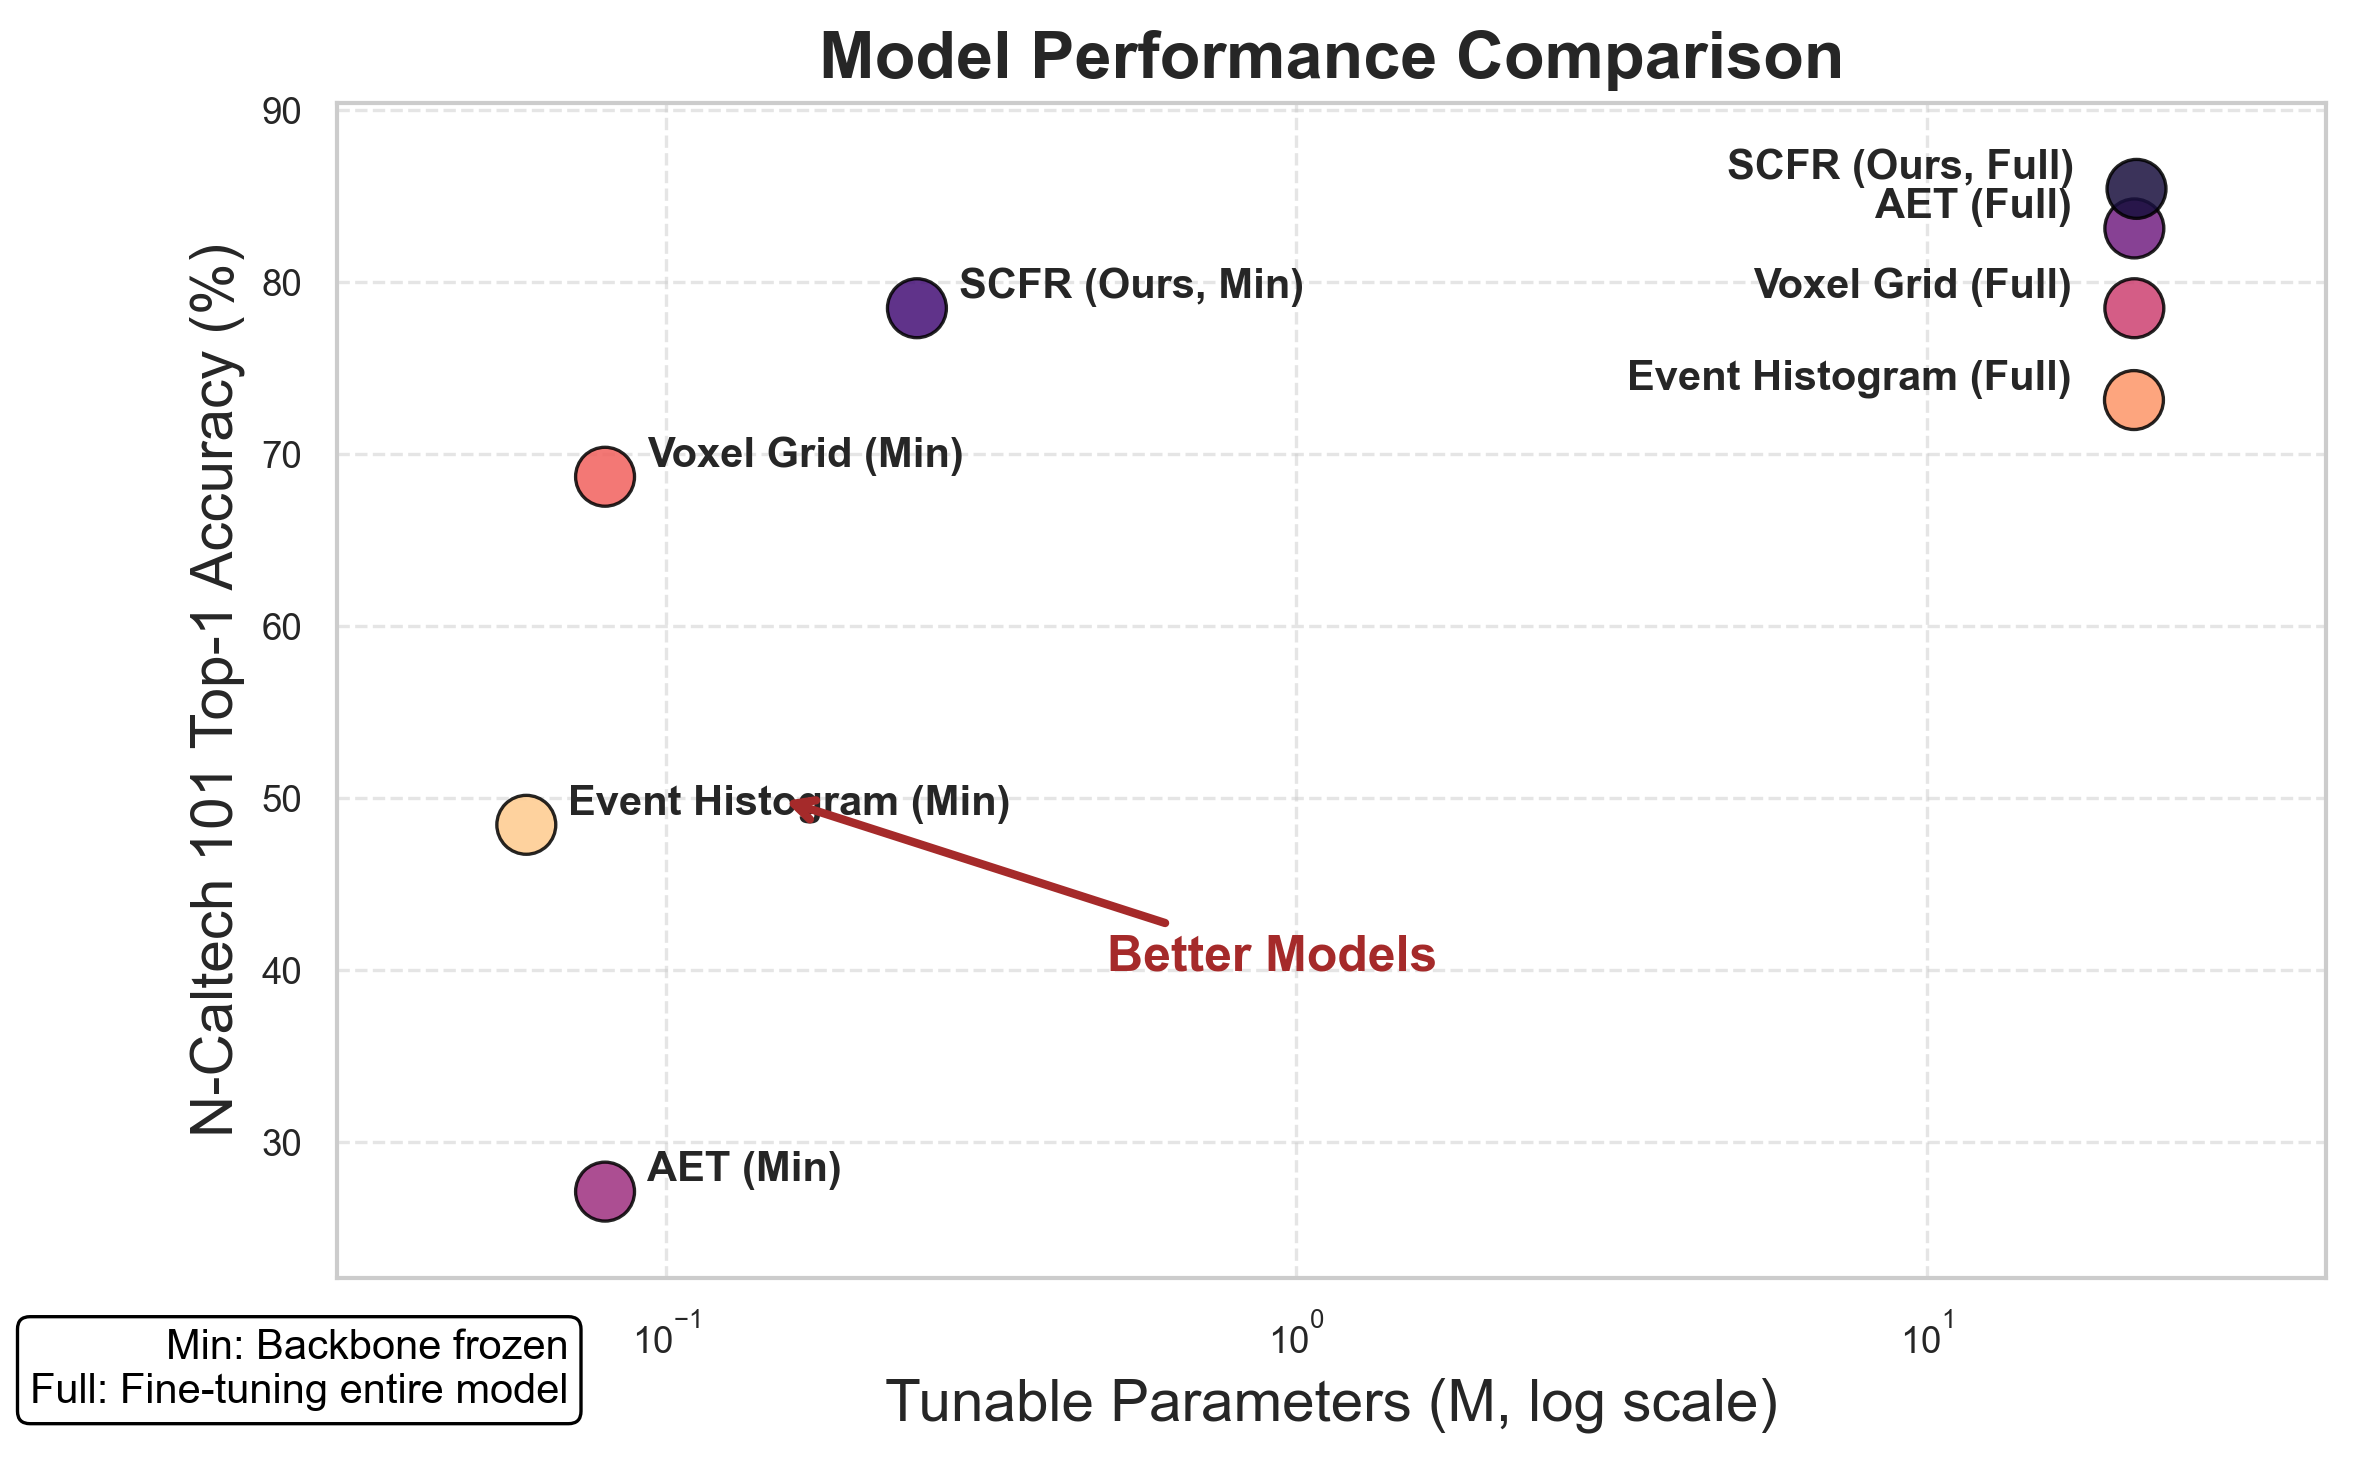
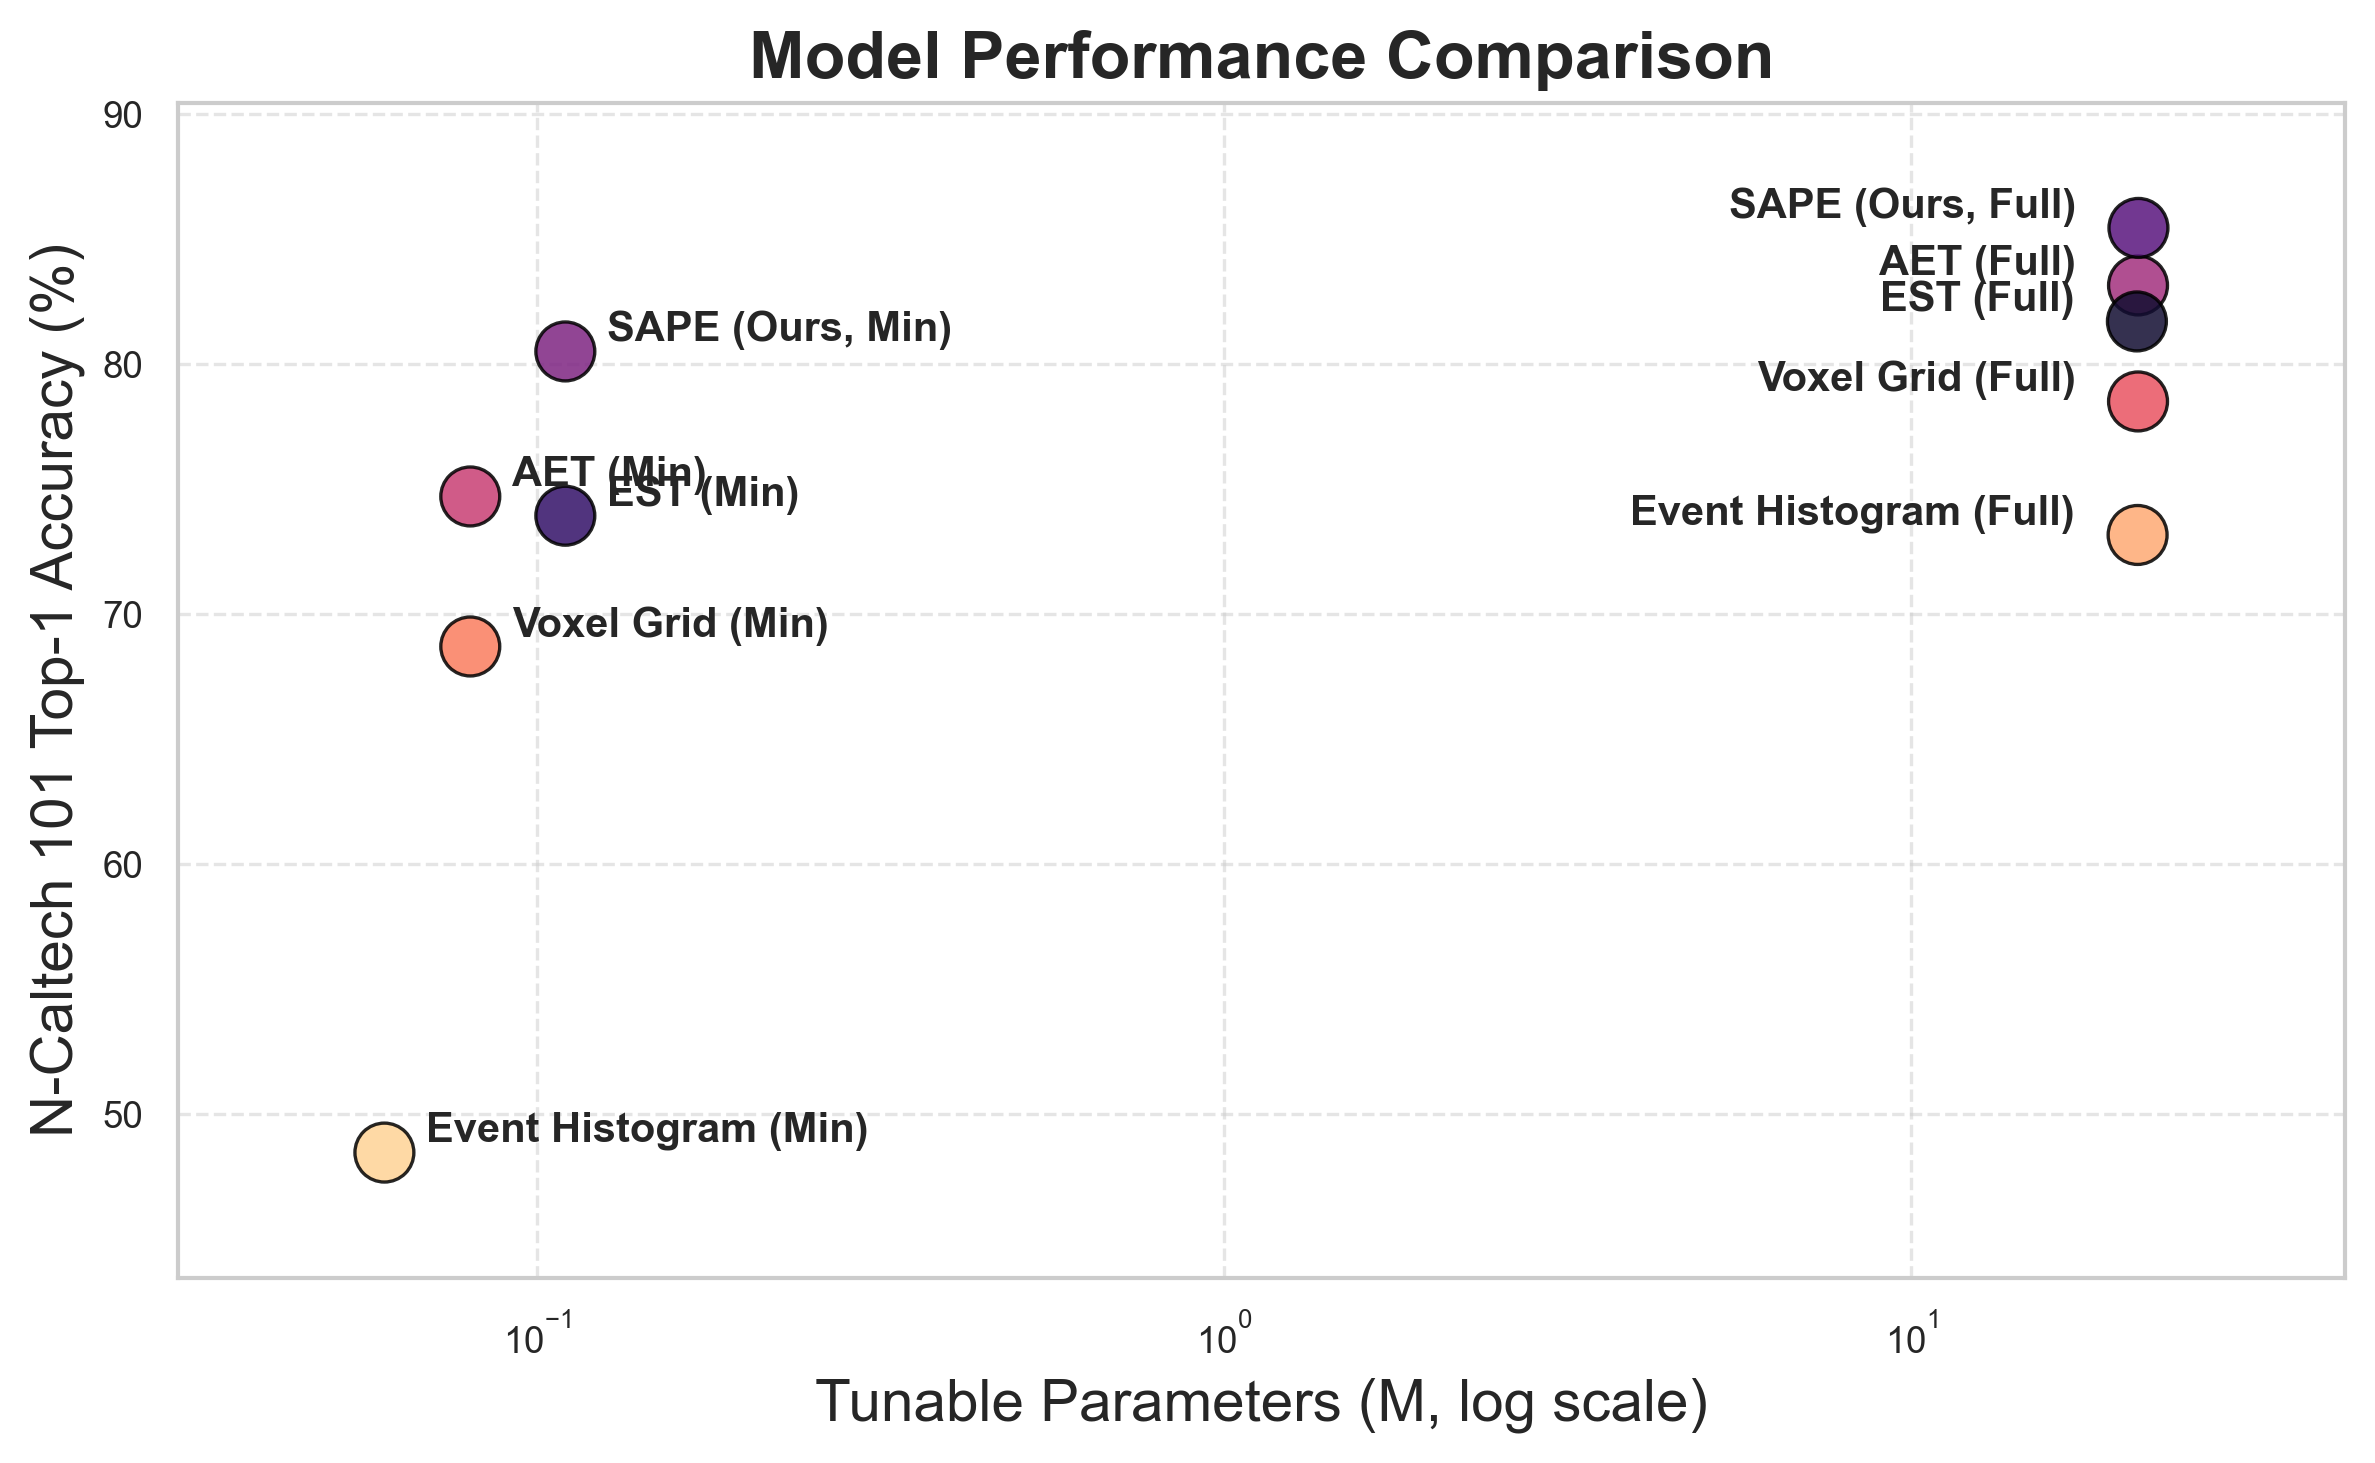
update scatter

diff --git a/painting/scatter.py b/painting/scatter.py
@@ -11,53 +11,58 @@ models = [
     "Event Histogram (Min)", "Event Histogram (Full)",
     "Voxel Grid (Min)", "Voxel Grid (Full)",
     "AET (Min)", "AET (Full)",
-    "SCFR (Ours, Min)", "SCFR (Ours, Full)"
+    "SAPE (Ours, Min)", "SAPE (Ours, Full)", "EST (Min)", "EST (Full)"
 ]
-params = np.array([0.06, 21.33, 0.08, 21.36, 0.08, 21.36, 0.25, 21.53])  # 参数量 (M)
-accuracy = np.array([48.46, 73.16, 68.70, 78.50, 27.13, 83.14, 78.50, 85.44])  # 准确率 (%)
+params = np.array([0.06, 21.33, 0.08, 21.36, 0.08, 21.36, 0.11, 21.39, 0.11, 21.28])  # 参数量 (M)
+accuracy = np.array([48.46, 73.16, 68.70, 78.50, 74.70, 83.14, 80.50, 85.44, 73.93, 81.70])  # 准确率 (%)
 
-# 颜色方案（使用 Viridis 颜色渐变）
+# 颜色方案（使用 magma 颜色渐变）
 colors = sns.color_palette("magma_r", len(models))
 
 # 创建图表
 plt.figure(figsize=(8, 5))
 
-# 绘制散点图（统一 Marker）
+# 绘制散点图
 plt.scatter(params, accuracy, c=colors, marker="o", s=200, edgecolors='black', alpha=0.85)
 
-# 在数据点旁边添加模型名称，自动调整文本位置
-for i, model in enumerate(models):
-    ha = "right" if params[i] > 5 else "left"  # 避免超出边界
-    offset_x = -15 if ha == "right" else 10  # 左侧文字偏右，右侧文字偏左
-    offset_y = 5  # 避免重叠
-    plt.annotate(model, (params[i], accuracy[i]), fontsize=10, fontweight="bold",
-                 xytext=(offset_x, offset_y), textcoords="offset points", ha=ha, va="center", fontname="Arial")
+# 手动调整文本标签的偏移量
+offsets = [
+    (15, 8), (-20, -8),  # Event Histogram (Min/Full)
+    (15, 5), (-20, -5),  # Voxel Grid (Min/Full)
+    (15, 10), (-20, 0),  # AET (Min/Full)
+    (20, 7), (-25, 0),  # SAPE (Ours, Min/Full)
+    (15, 0), (-22, -6)  # EST (Min/Full)
+]
 
-# 对数刻度（log scale）避免数据挤在一起
+# 在数据点旁边添加模型名称，避免重叠
+for i, model in enumerate(models):
+    ha = "left" if "Min" in model else "right"  # Min 在右，Full 在左
+    va = "bottom" if i % 2 == 0 else "top"  # 交替调整垂直对齐
+    offset_x, offset_y = offsets[i]  # 获取对应的偏移值
+
+    plt.annotate(model, (params[i], accuracy[i]), fontsize=10, fontweight="bold",
+                 xytext=(offset_x, offset_y), textcoords="offset points",
+                 ha=ha, va=va, fontname="Arial")
+
+# 对数刻度（log scale）
 plt.xscale("log")
 plt.xlabel("Tunable Parameters (M, log scale)", fontsize=14, fontname="Arial")
 plt.ylabel("N-Caltech 101 Top-1 Accuracy (%)", fontsize=14, fontname="Arial")
-plt.title("Model Performance Comparison", fontsize=16, fontweight="bold", fontname="Arial")
+plt.title("Representation Performance Comparison", fontsize=16, fontweight="bold", fontname="Arial")
 
 # 美化网格和边界
 plt.grid(True, linestyle="--", alpha=0.5)
 plt.xlim(min(params) / 2, max(params) * 2)
 plt.ylim(min(accuracy) - 5, max(accuracy) + 5)
 
-# 右下角添加 "Min" 和 "Full" 的解释
-plt.text(0.07, min(accuracy) - 8,
-         "Min: Backbone frozen\nFull: Fine-tuning entire model",
-         fontsize=10, fontname="Arial", color="black",
-         ha="left", va="top", bbox=dict(facecolor="white", edgecolor="black", boxstyle="round,pad=0.3"))
-
-# 右下角添加箭头（指向左上角）
-plt.annotate("Better Models", xy=(0.15, 50), xytext=(0.5, 40),
+# 添加方向指示箭头
+plt.annotate("Better Models", xy=(1.0, 40), xytext=(10, 30),
              arrowprops=dict(arrowstyle="->", color="brown", lw=2),
              fontsize=12, color="brown", fontweight="bold", fontname="Arial")
 
 # 保存高清图片
 plt.tight_layout()
-plt.savefig("scatter_plot.png", dpi=300, bbox_inches="tight")
+plt.savefig("./fig/scatter_plot_manual_adjusted.png", dpi=300, bbox_inches="tight")
 
 # 显示图像
 plt.show()
